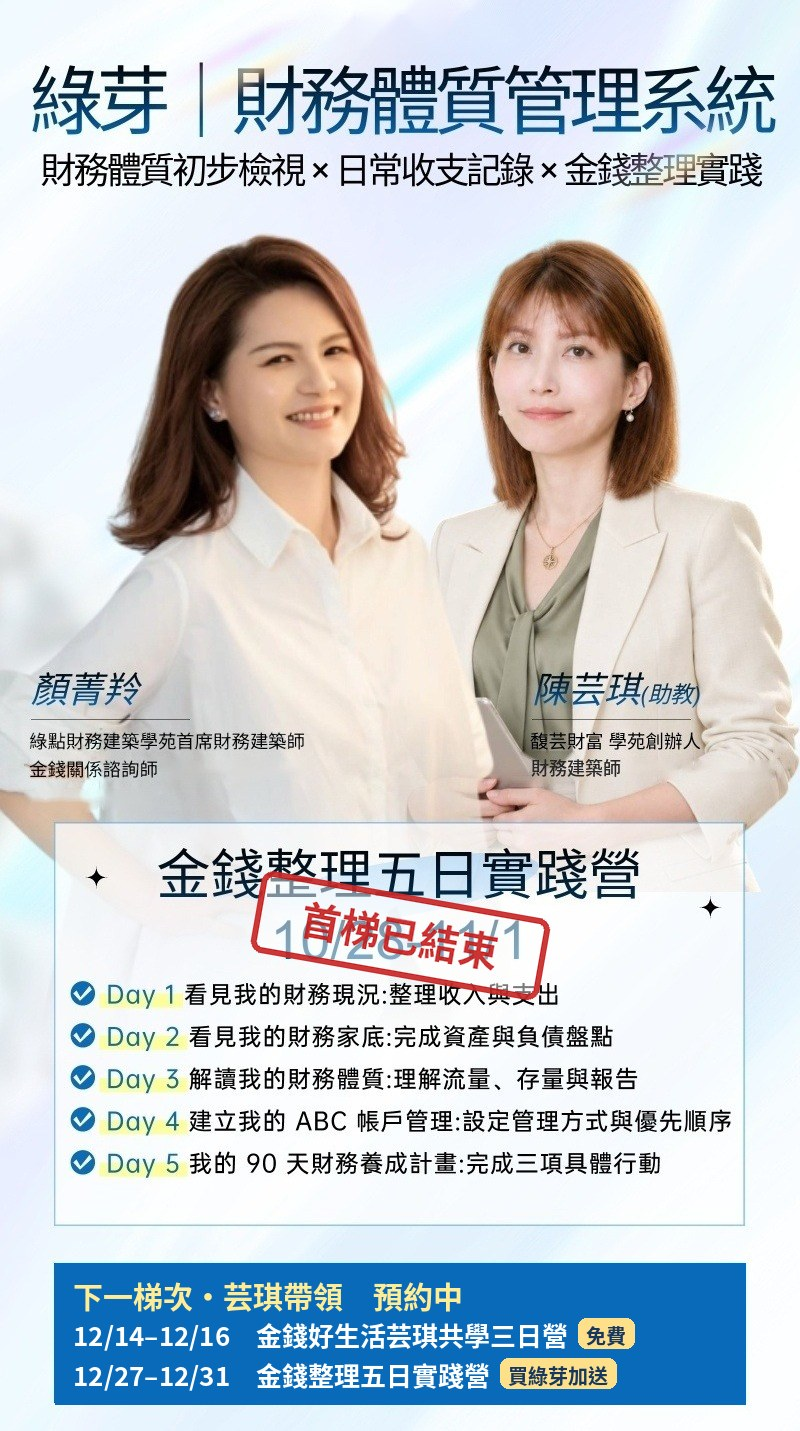
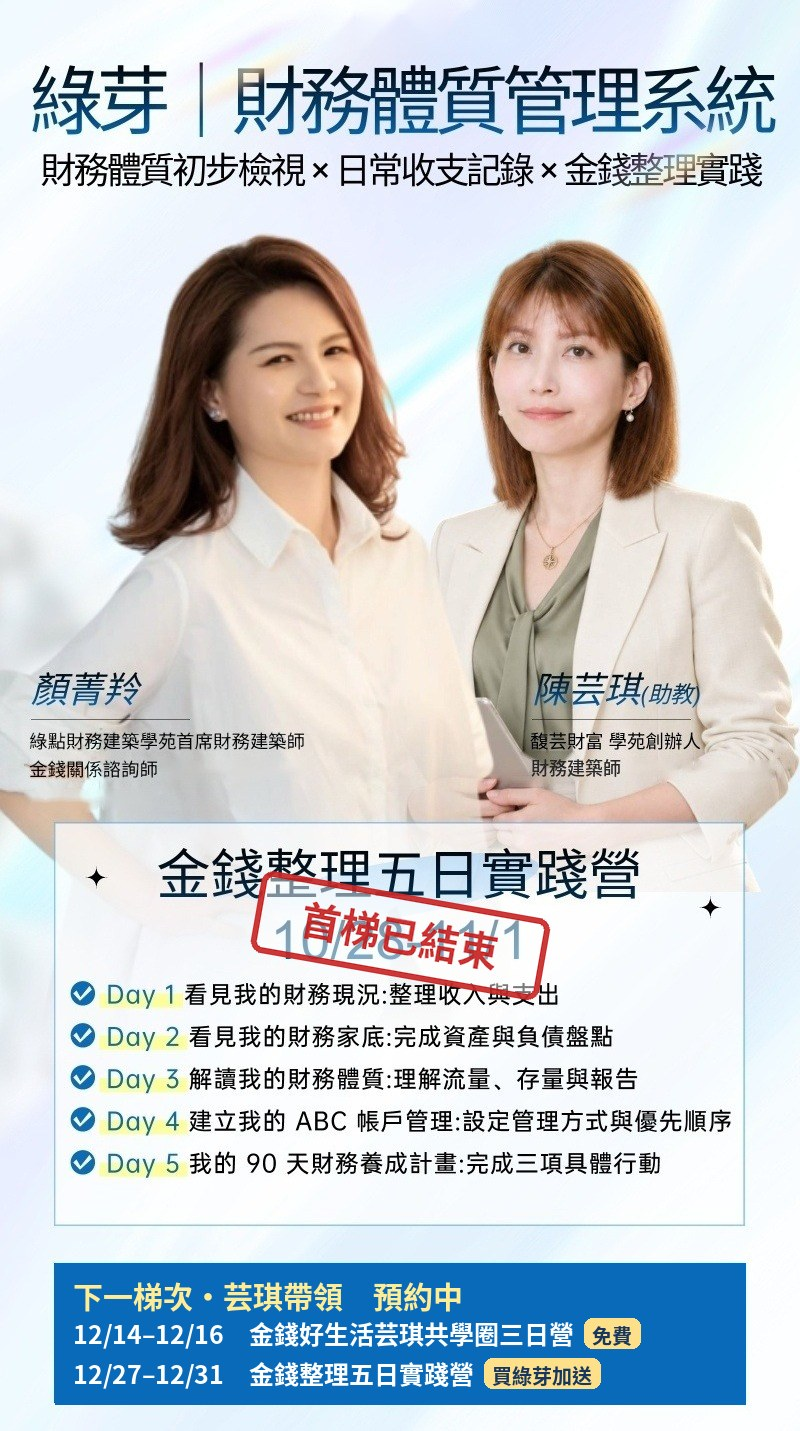
三日營名稱改為「金錢好生活芸琪共學圈三日營」；新朋友版加上三日營、五日營連結；海報 v2 同步
Claude-Session: https://claude.ai/code/session_01GFdyqpiRcQg5VmhfiYXQ9g

Changed region(s): [[0.3125, 0.9224, 0.8125, 0.9839], [0.0938, 0.9224, 0.2812, 0.9839]]

diff --git a/money-detective/index.html b/money-detective/index.html
@@ -367,7 +367,7 @@ body.lite .topbtns a[href*="/quiz/"]{display:none}
 <div class="topbanner"><img src="img/cfo-banner.jpg" alt="家庭財務長養成計畫：收支管理、資產布局、風險保障、照護準備、傳承規劃" width="1600" height="533"></div>
 <section id="liteBox" aria-label="新朋友 3 關快速體驗"></section>
 <section id="vMap">
- <div id="mapHead"><div class="mhL"><span class="badge">馥芸財富成長計畫｜家庭財務長養成航記</span><h1>財富航海群島</h1><p class="vision">🌱 從財務覺醒開始，成為有生活選擇權的家庭財務長。</p></div><div class="campL"><a class="cl3" href="../events/1214-camp.html"><b>🌱 12/14–12/16 共學三日營</b><span>免費參加・LINE 群內圖文分享 →</span></a><a class="cl5" href="../greensprout/" target="_blank" rel="noopener"><b>📒 12/27–12/31 五日實踐營</b><span>購買綠芽加送・芸琪帶你動手整理 →</span></a></div><details class="howto"><summary>📘 玩法 3 步（第一次玩先看）</summary><ol><li><b>點一座島</b>：第 1 座迷霧港免費試玩，不用填資料。</li><li><b>看精選案件，按「✅ 我破案了」</b>蓋章。破完迷霧港填 1 分鐘問卷，領登船通行碼（30 天有效），其他島就能登。</li><li><b>集滿 8 格</b>：加 LINE 登記領書；也可以按「📮 送出我的完成紀錄」。</li></ol><small>進度存在這支手機的這個瀏覽器，換手機或用 LINE 開會看不到之前的紀錄。</small></details></div>
+ <div id="mapHead"><div class="mhL"><span class="badge">馥芸財富成長計畫｜家庭財務長養成航記</span><h1>財富航海群島</h1><p class="vision">🌱 從財務覺醒開始，成為有生活選擇權的家庭財務長。</p></div><div class="campL"><a class="cl3" href="../events/1214-camp.html"><b>🌱 12/14–12/16 共學圈三日營</b><span>免費參加・LINE 群內圖文分享 →</span></a><a class="cl5" href="../greensprout/" target="_blank" rel="noopener"><b>📒 12/27–12/31 五日實踐營</b><span>購買綠芽加送・芸琪帶你動手整理 →</span></a></div><details class="howto"><summary>📘 玩法 3 步（第一次玩先看）</summary><ol><li><b>點一座島</b>：第 1 座迷霧港免費試玩，不用填資料。</li><li><b>看精選案件，按「✅ 我破案了」</b>蓋章。破完迷霧港填 1 分鐘問卷，領登船通行碼（30 天有效），其他島就能登。</li><li><b>集滿 8 格</b>：加 LINE 登記領書；也可以按「📮 送出我的完成紀錄」。</li></ol><small>進度存在這支手機的這個瀏覽器，換手機或用 LINE 開會看不到之前的紀錄。</small></details></div>
  <div id="liteMapH"><b>🗺 完整版航海圖｜學員 8 座島</b><span>點任何一座島，就切換到完整版開始航行</span></div>
  <div class="mapbox" id="mapbox"></div>
  <div class="list" id="listView" style="display:none"></div>
@@ -910,6 +910,7 @@ function renderLite(){const b=$('#liteBox');if(!b)return;const n=liteDone(),nx=L
  <div class="lt-g">${LITE.map((id,k)=>`<button type="button" class="lt-c${liteIsDone(id)?' on':''}${id===nx?' lt-next':''}" data-lite="${id}"><i class="n">第 ${k+1} 關${liteIsDone(id)?'・已破案 ✓':''}</i><b>${LITE_NM[id]}</b><span>${LITE_TIP[id]}</span><span style="display:block;margin-top:4px;color:#8a5a12">${LITE_NEXT[id]}</span></button>`).join('')}</div>
  <div class="lt-prog"><i style="width:${n/3*100}%"></i></div><div style="font-size:13px;color:#5f7680">已完成 ${n} / 3 關</div>
  ${n>=3?consultTicket():''}
+ <div class="campL" style="margin:12px 0"><a class="cl3" href="../events/1214-camp.html"><b>🌱 12/14–12/16 共學圈三日營</b><span>免費參加・LINE 群內圖文分享 →</span></a><a class="cl5" href="../greensprout/" target="_blank" rel="noopener"><b>📒 12/27–12/31 五日實踐營</b><span>購買綠芽加送・芸琪帶你動手整理 →</span></a></div>
  <details class="lt-yr"><summary>🗓 年底財務回看：別把今年的金錢狀態帶進 2027（點開看）</summary><img src="img/yearend2027.jpg" alt="年底財務回看：別把今年的金錢狀態，直接帶進 2027" loading="lazy"></details>
  <div class="lt-me"><a class="btn" href="https://reurl.cc/EYxQxk" target="_blank" rel="noopener">👩💼 認識財顧芸</a><a class="btn" href="https://angie26501-lgtm.github.io/private/lwd/lwd-plans.html" target="_blank" rel="noopener">🧩 服務項目</a></div>
  <div class="lt-foot"><span>已經是芸琪的學員？</span><button class="btn" type="button" id="goFull">🎓 學員・完整版（8 座島）→</button></div>`;

diff --git a/greensprout/index.html b/greensprout/index.html
@@ -3,10 +3,10 @@
 <head>
 <meta charset="utf-8">
 <meta name="viewport" content="width=device-width,initial-scale=1,viewport-fit=cover">
-<title>綠芽財務健檢＋芸琪共學三日營・五日實踐營｜12 月梯次報名</title>
+<title>綠芽財務健檢＋芸琪共學圈三日營・五日實踐營｜12 月梯次報名</title>
 <meta name="description" content="綠芽｜財務體質管理系統，共學圈優惠價 NT$1,800（一年使用期，原價 NT$3,600），加送芸琪帶領的金錢整理五日實踐營 12/27–12/31；12/14–12/16 共學三日營免費參加。">
 <meta property="og:type" content="website">
-<meta property="og:title" content="綠芽財務健檢＋芸琪共學三日營・五日實踐營｜12 月梯次">
+<meta property="og:title" content="綠芽財務健檢＋芸琪共學圈三日營・五日實踐營｜12 月梯次">
 <meta property="og:description" content="共學圈優惠價 NT$1,800（原價 NT$3,600），加送五日實踐營 12/27–12/31；12/14 三日營免費參加，芸琪帶領。">
 <meta property="og:image" content="https://angie26501-lgtm.github.io/business/greensprout/poster-v2.jpg">
 <meta property="og:url" content="https://angie26501-lgtm.github.io/business/greensprout/">
@@ -276,7 +276,7 @@ img,video{-webkit-user-drag:none;user-drag:none}
     <h2>綠芽｜財務體質管理系統</h2>
     <div class="price"><span class="now">NT$1,800<small>／一年使用期</small></span><span class="old">原價 NT$3,600</span></div>
     <p class="sub">財務體質初步檢視 × 日常收支記錄 × 金錢整理實踐</p>
-    <div class="gift">🎁 <b>用推薦碼 FKJ5589 購買，加送《金錢整理五日實踐營》</b><br>綠芽財務健診系統剛推出，特別加碼帶大家一起把家裡的財務資料整理清楚。<br>📅 <b>2026/12/14（一）～12/16（三）｜金錢好生活芸琪共學三日營（免費參加）</b><br>每天一則圖文，輕鬆學財商，先來暖身。<br>📅 <b>2026/12/27（日）～12/31（四）｜金錢整理五日實踐營（購買綠芽加送）</b><br>每天 20 分鐘以內的影片＋小任務，搭車、做家事時也能邊聽邊學。</div>
+    <div class="gift">🎁 <b>用推薦碼 FKJ5589 購買，加送《金錢整理五日實踐營》</b><br>綠芽財務健診系統剛推出，特別加碼帶大家一起把家裡的財務資料整理清楚。<br>📅 <b>2026/12/14（一）～12/16（三）｜金錢好生活芸琪共學圈三日營（免費參加）</b><br>每天一則圖文，輕鬆學財商，先來暖身。<br>📅 <b>2026/12/27（日）～12/31（四）｜金錢整理五日實踐營（購買綠芽加送）</b><br>每天 20 分鐘以內的影片＋小任務，搭車、做家事時也能邊聽邊學。</div>
     <p class="cd" id="cd"></p>
     <a class="next" href="#join">現在就加入 <span>↓</span></a>
   </section>
@@ -456,7 +456,7 @@ img,video{-webkit-user-drag:none;user-drag:none}
 <script>
 (function(){var el=document.getElementById('cdTop');if(!el)return;
 var D=function(x){return new Date(x+'T00:00:00+08:00')};
-var P=[[D('2026-12-14'),'🌱 <b>金錢好生活芸琪共學三日營</b><span class="s2">12/14（一）開營倒數</span>',''],
+var P=[[D('2026-12-14'),'🌱 <b>金錢好生活芸琪共學圈三日營</b><span class="s2">12/14（一）開營倒數</span>',''],
 [D('2026-12-17'),'<span>🔥 三日營進行中（12/14–12/16）</span><span class="s2"><b>五日實踐營</b> 12/27 開營倒數</span>','2026-12-27'],
 [D('2026-12-27'),'🌱 <b>金錢整理五日實踐營</b><span class="s2">12/27（日）開營倒數</span>',''],
 [D('2027-01-01'),'🔥 <b>金錢整理五日實踐營</b>進行中（12/27–12/31）<span class="s2">結束倒數</span>','']];

diff --git a/events/1214-camp.html b/events/1214-camp.html
@@ -124,7 +124,7 @@ footer{text-align:center;font-size:12px;color:var(--mute);margin-top:24px}
 <header>
   <span class="tag">🌱 免費參加・LINE 群內分享</span>
   <h1>人生下半場，<br>你的財務準備好了嗎？</h1>
-  <p class="sub">金錢好生活芸琪共學三日營・人生越來越長，三天陪你看清楚自己的財務</p>
+  <p class="sub">金錢好生活芸琪共學圈三日營・人生越來越長，三天陪你看清楚自己的財務</p>
   <div class="meta">
     <div>日期<b>12/14–12/16</b></div>
     <div>時間<b>每天圖文</b></div>
@@ -322,7 +322,7 @@ function tick(){
   else{el.innerHTML='本梯次三日營已結束，謝謝你的參與<a href="https://angie26501-lgtm.github.io/business/greensprout/" style="display:block;font-size:14px;font-weight:600;color:#fff;opacity:.95;margin-top:2px;text-decoration:underline">接著 12/27 五日實踐營 →</a>';if(!window._ended){window._ended=1;var c=['pForm','pDone','pMail'].some(function(x){return !$(x).classList.contains('hide')});if(!c)show('pEnd')}}
 }
 
-var CT='人生下半場・財務覺醒 3 日分享會｜金錢好生活芸琪共學三日營',
+var CT='人生下半場・財務覺醒 3 日分享會｜金錢好生活芸琪共學圈三日營',
 CD='帶領：財顧芸 陳芸琪\n12/14–12/16 每天在 LINE 群組看圖文分享，不用固定時間上線。\n官方 LINE：https://lin.ee/oOvyuwU（留言「三日營」報名）';
 function calT(b){var m=b.parentNode.nextElementSibling;m.classList.toggle('on')}
 function gcal(){window.open('https://calendar.google.com/calendar/render?action=TEMPLATE&text='+encodeURIComponent(CT)+'&dates=20261214/20261217&details='+encodeURIComponent(CD)+'&location='+encodeURIComponent('LINE 群組'),'_blank')}

diff --git a/events/1025-live.html b/events/1025-live.html
@@ -262,7 +262,7 @@ footer{text-align:center;font-size:12px;color:var(--mute);margin-top:24px}
   <a href="1214-camp.html"><img src="1214-banner.jpg" alt="人生下半場 財務覺醒3日分享會｜12/14–12/16 陳芸琪 財顧芸｜活動免費參加" width="1733" height="908" loading="lazy" style="width:100%;height:auto;border-radius:14px;margin-bottom:12px;display:block"></a>
   <span class="k">下一梯次・芸琪帶領　預約中</span>
   <h2>把聽到的，動手整理成自己的財務 🌱</h2>
-  <a class="it" href="1214-camp.html" style="display:block;text-decoration:none;color:inherit">📅 <b>2026/12/14（一）～12/16（三）｜金錢好生活芸琪共學三日營（免費參加）</b><br>每天一則圖文，輕鬆學財商。<span style="display:block;margin-top:4px;color:#e8781e;font-weight:700">👉 看三日營介紹與報名</span></a>
+  <a class="it" href="1214-camp.html" style="display:block;text-decoration:none;color:inherit">📅 <b>2026/12/14（一）～12/16（三）｜金錢好生活芸琪共學圈三日營（免費參加）</b><br>每天一則圖文，輕鬆學財商。<span style="display:block;margin-top:4px;color:#e8781e;font-weight:700">👉 看三日營介紹與報名</span></a>
   <div class="it">📅 <b>2026/12/27（日）～12/31（四）｜金錢整理五日實踐營（購買綠芽加送）</b><br>每天 20 分鐘以內的影片＋小任務，搭車、做家事時也能邊聽邊學。</div>
   <p class="ct" id="nbT"></p>
   <div class="n"><span><b id="nbD">0</b><small>天</small></span><span><b id="nbH">00</b><small>時</small></span><span><b id="nbM">00</b><small>分</small></span><span><b id="nbS">00</b><small>秒</small></span></div>

diff --git a/greensprout/how-to-buy.html b/greensprout/how-to-buy.html
@@ -145,7 +145,7 @@ footer a{color:var(--g)}
   <section class="gift">
     <h3>🎁 用推薦碼 FKJ5589 購買，加送《金錢整理五日實踐營》</h3>
     <p>綠芽財務健診系統剛推出，特別加碼帶大家一起把家裡的財務資料整理清楚。</p>
-    <p>📅 <b>2026/12/14（一）～12/16（三）｜金錢好生活芸琪共學三日營（免費參加）</b><br>每天一則圖文，輕鬆學財商，先來暖身。</p>
+    <p>📅 <b>2026/12/14（一）～12/16（三）｜金錢好生活芸琪共學圈三日營（免費參加）</b><br>每天一則圖文，輕鬆學財商，先來暖身。</p>
     <p>📅 <b>2026/12/27（日）～12/31（四）｜金錢整理五日實踐營（購買綠芽加送）</b><br>每天 20 分鐘以內的影片＋小任務，搭車、做家事時也能邊聽邊學。</p>
     <p><b>付款完成後，到財顧芸官方 LINE 傳「付款截圖＋你的 Email」，我幫你加入 12/27 五日實踐營。</b></p>
     <a class="btn me" href="https://lin.ee/oOvyuwU" target="_blank" rel="noopener">到官方 LINE 傳截圖＋Email<small>財顧芸官方 LINE @qpk4617k</small></a>
